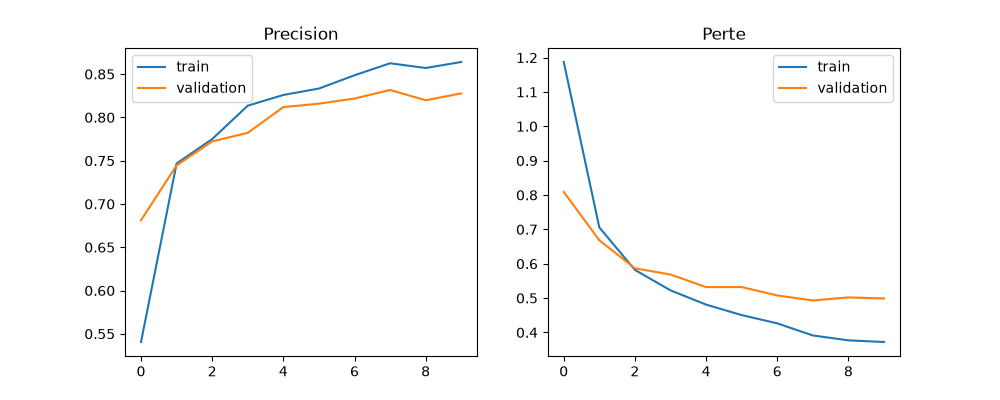
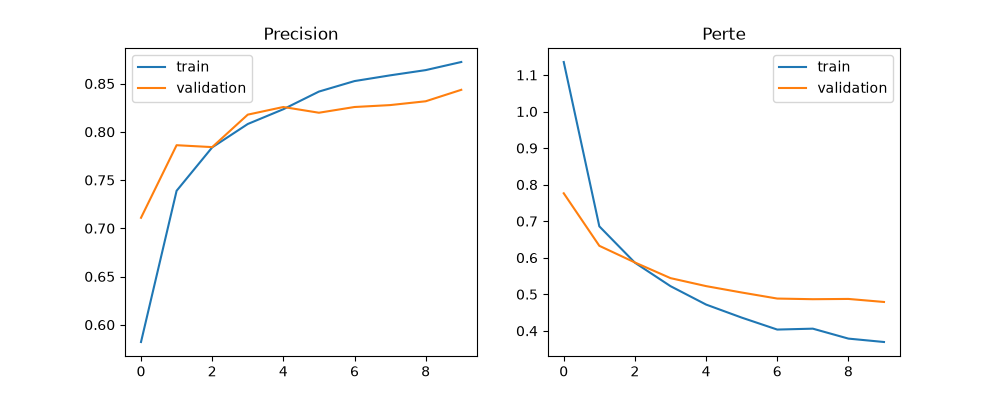
feat: script d'evaluation, matrice de confusion, correctif sauvegarde h5

diff --git a/training/evaluate.py b/training/evaluate.py
@@ -1,0 +1,51 @@
+import numpy as np
+import tensorflow as tf
+from tensorflow import keras
+import matplotlib.pyplot as plt
+from sklearn.metrics import confusion_matrix, classification_report, ConfusionMatrixDisplay
+
+# ---------- 1. Parametres (identiques a train.py) ----------
+DATA_DIR = "dataset/Garbage classification/Garbage classification"
+IMG_SIZE = (224, 224)
+BATCH_SIZE = 32
+SEED = 42
+
+# ---------- 2. On recharge le meme jeu de validation ----------
+# Meme seed + meme split = exactement les memes images
+# que celles jamais vues pendant l'entrainement
+val_ds = keras.utils.image_dataset_from_directory(
+    DATA_DIR,
+    validation_split=0.2,
+    subset="validation",
+    seed=SEED,
+    image_size=IMG_SIZE,
+    batch_size=BATCH_SIZE,
+    shuffle=True,   # important : garder l'ordre pour comparer
+)
+class_names = val_ds.class_names
+print("Classes :", class_names)
+
+# ---------- 3. Chargement du modele entraine ----------
+model = keras.models.load_model("models/modele_eco_sort.h5")
+
+# ---------- 4. Predictions sur toute la validation ----------
+y_true = []
+y_pred = []
+for images, labels in val_ds:
+    preds = model.predict(images, verbose=0)
+    y_true.extend(labels.numpy())
+    y_pred.extend(np.argmax(preds, axis=1))
+y_true = np.array(y_true)
+y_pred = np.array(y_pred)
+# ---------- 5. Rapport detaille par classe ----------
+print(classification_report(y_true, y_pred, target_names=class_names))
+
+# ---------- 6. Matrice de confusion en image ----------
+cm = confusion_matrix(y_true, y_pred)
+disp = ConfusionMatrixDisplay(cm, display_labels=class_names)
+fig, ax = plt.subplots(figsize=(8, 8))
+disp.plot(ax=ax, cmap="Blues", xticks_rotation=45)
+plt.title("Matrice de confusion - EcoSort")
+plt.tight_layout()
+plt.savefig("training/matrice_confusion.png")
+print("Matrice sauvegardee dans training/matrice_confusion.png")

diff --git a/training/train.py b/training/train.py
@@ -56,7 +56,7 @@ base_model.trainable = False  # on GELE son savoir
 
 inputs = keras.Input(shape=IMG_SIZE + (3,))
 x = data_augmentation(inputs)
-x = keras.applications.mobilenet_v2.preprocess_input(x)
+x = layers.Rescaling(1./127.5, offset=-1)(x)
 x = base_model(x, training=False)
 x = layers.GlobalAveragePooling2D()(x)
 x = layers.Dropout(0.2)(x)
@@ -75,6 +75,7 @@ history = model.fit(train_ds, validation_data=val_ds, epochs=EPOCHS)
 
 # ---------- 6. Sauvegarde ----------
 model.save("models/modele_eco_sort.h5")
+model.save("models/modele_eco_sort.keras")
 print("Modele sauvegarde dans models/modele_eco_sort.h5")
 
 # ---------- 7. Courbes d'apprentissage ----------